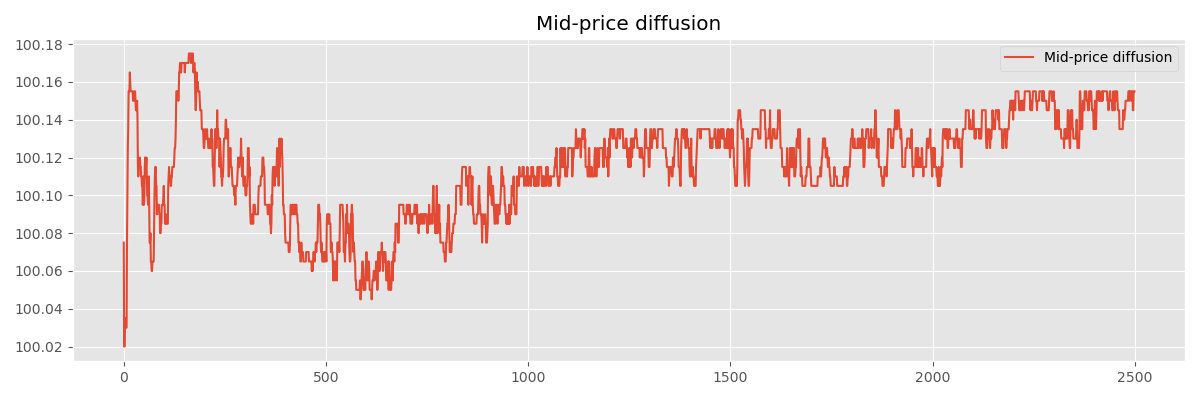
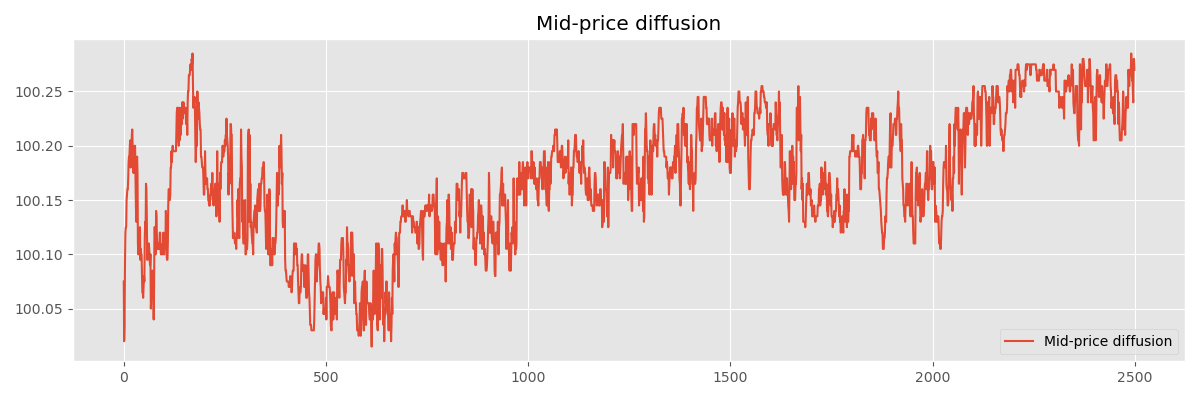
fix book plot

diff --git a/src/run.py b/src/run.py
@@ -149,12 +149,13 @@ def plot_snapshots(snapshots: list[dict], out_path: str) -> None:
         axes = [axes]
 
     # Fixed half-width in price units across all snapshots
-    try:
-        tick = snapshots[0]["bids"][0][0] - snapshots[0]["bids"][1][0]
-    except IndexError:
-        tick = 0.01
-    bar_width = tick * 0.8
-    half_width = tick * 12  # controls how many levels are visible — adjust as needed
+    #try:
+      #  tick = snapshots[0]["bids"][0][0] - snapshots[0]["bids"][1][0]
+    #except IndexError:
+     #   tick = 0.01
+    tick = snapshots[0]["bids"][0][0] - snapshots[0]["bids"][1][0]
+    bar_width = tick * 0.1
+    half_width = tick * 5  # controls how many levels are visible — adjust as needed
 
     for ax, snap in zip(axes, snapshots):
         bids = snap["bids"]
@@ -383,8 +384,8 @@ def main() -> None:
         plot_snapshots(snapshots, os.path.join(out_dir, "ABM_OrderBook_Snapshots.png"))
 
     #Get the demand curve at the end of the simulation and save it
-    final_bids = book.top_n_levels("buy", 10)
-    final_asks = book.top_n_levels("sell", 10)
+    final_bids = book.top_n_levels("buy", 20)
+    final_asks = book.top_n_levels("sell", 20)
     plot_demand_curve(final_bids, final_asks, os.path.join(out_dir, "demand_curve.png"))
 
     #Save the order and book logs as CSV files for further analysis

diff --git a/src/agents.py b/src/agents.py
@@ -117,7 +117,7 @@ class NoiseTrader(BaseAgent):
         participation_rate: float = 0.9,
         market_prob: float = 0.5,
         sign_persistence: float = 0.7,
-        max_depth_ticks: int = 3,
+        max_depth_ticks: int = 20,
     ):
         super().__init__(trader_id, rng)
         self.participation_rate = participation_rate
